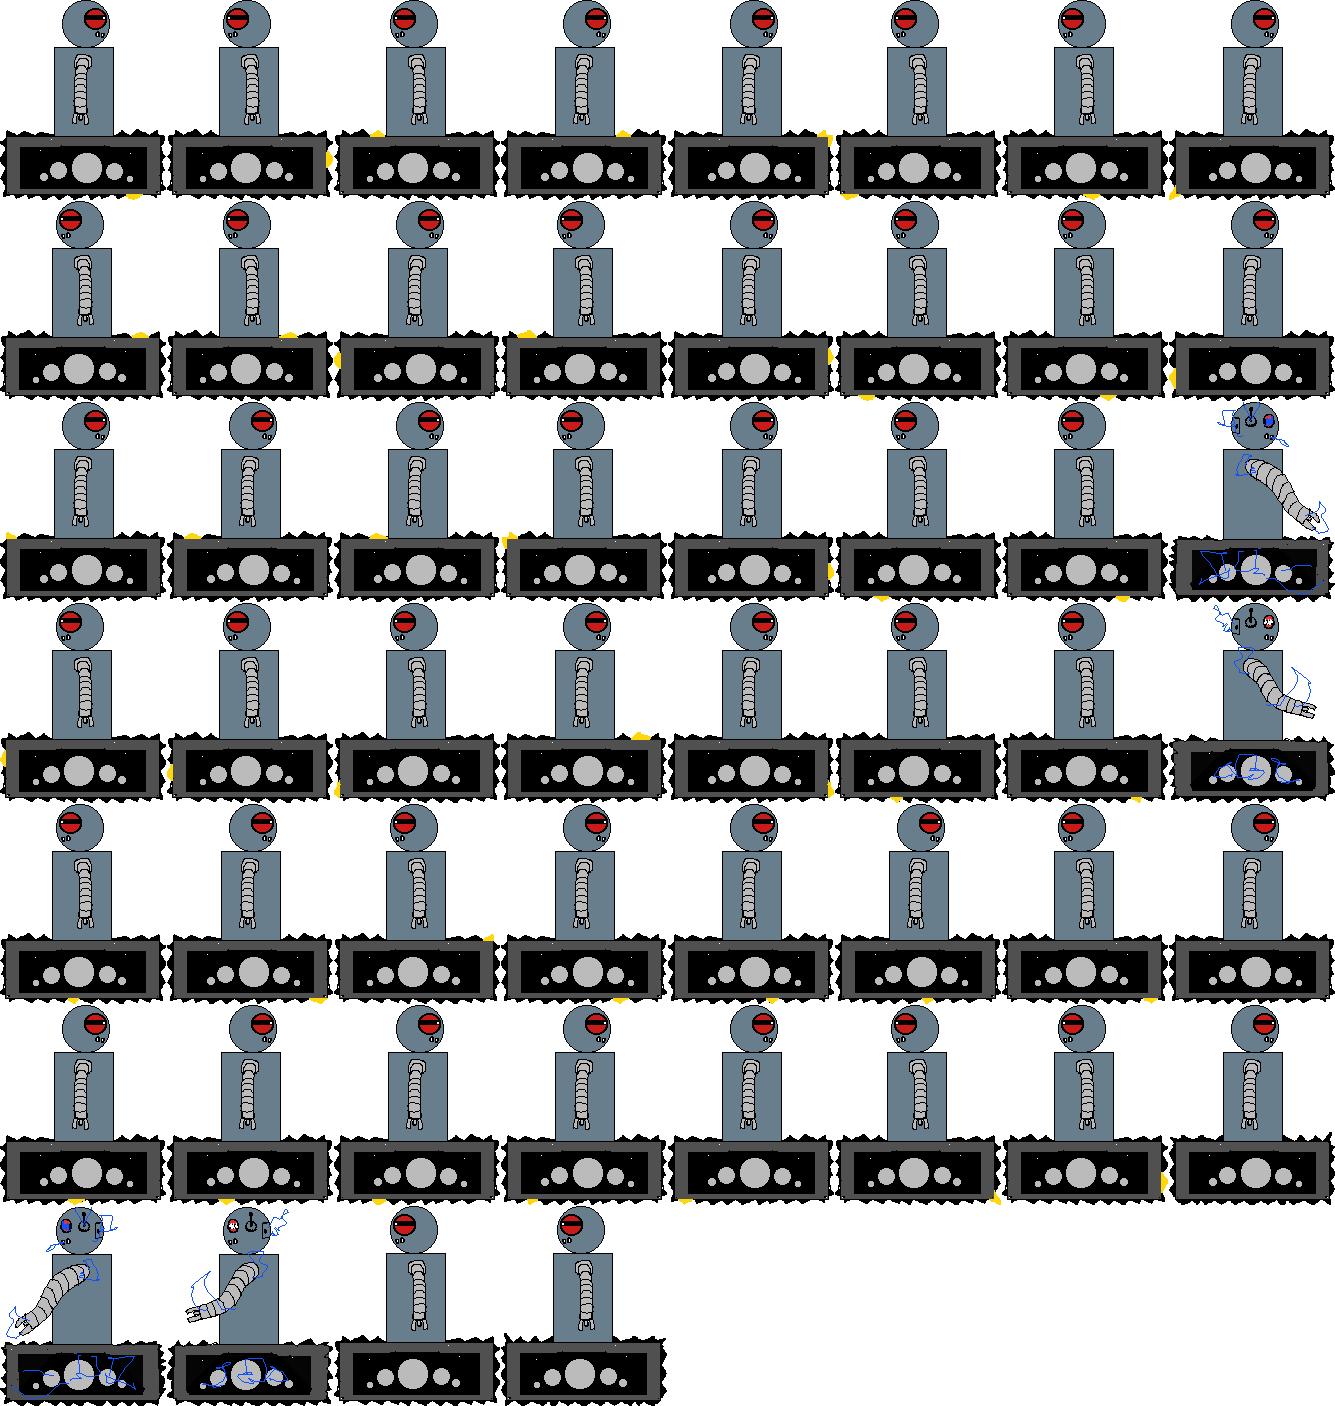
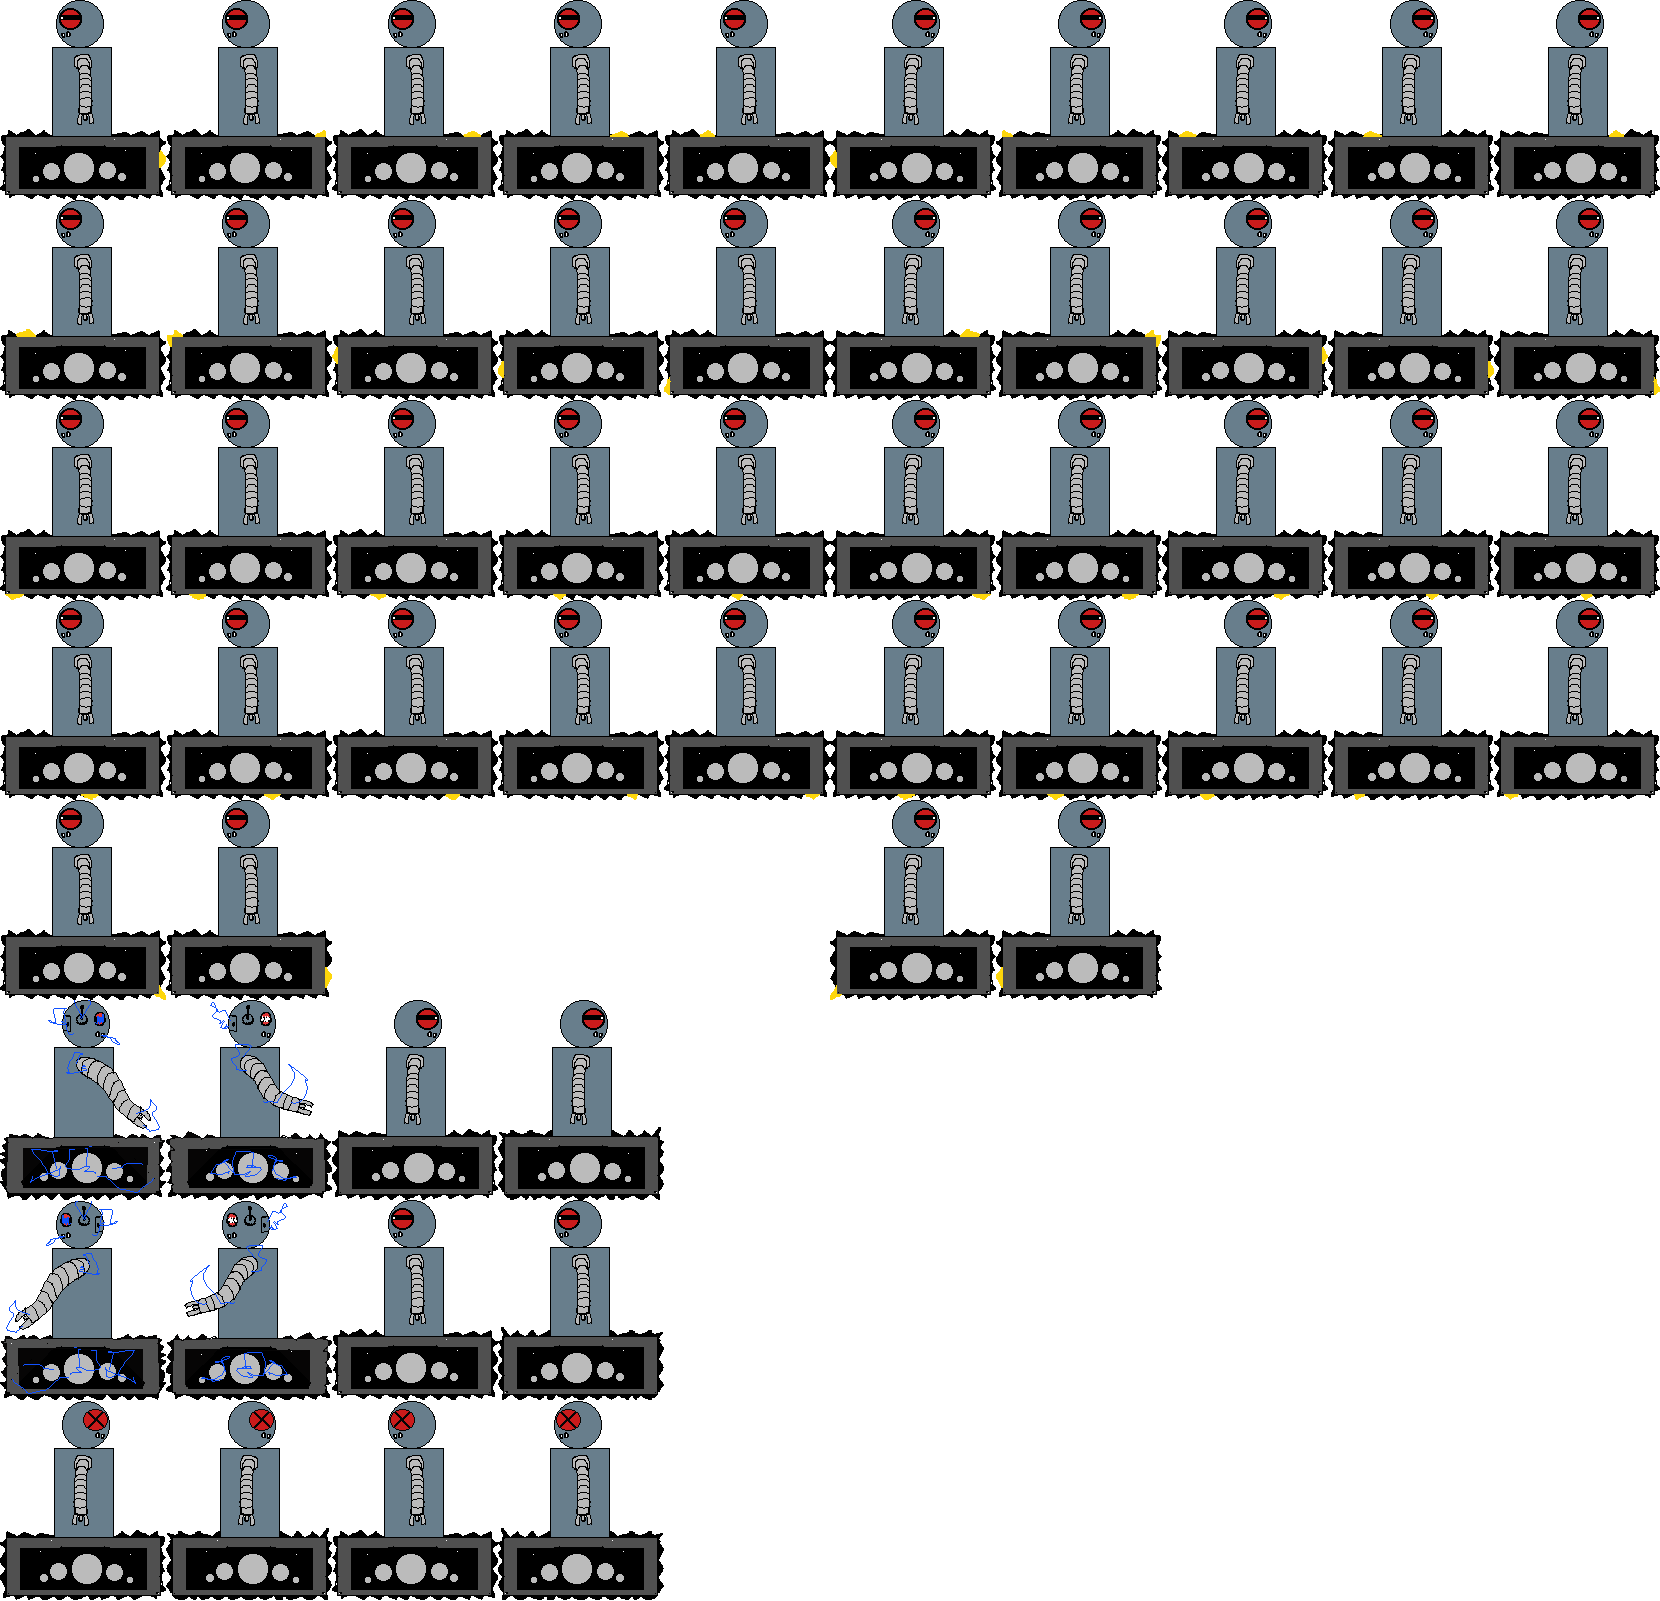
add animation for hacked

diff --git a/public/js/Level1_stage3.js b/public/js/Level1_stage3.js
@@ -41,7 +41,6 @@ BackTogether.Level1_stage3.prototype = {
         this.pausedScreen.off();
 
         this.popupScreen = new PopupScreen(game, 'Objective: \n Stage 3 ... \n When you find drone, \n run away..\n They find you and send robots to you.');
-        this.popupScreen.on();
 
 
         var collisionObjects = game.physics.p2.convertCollisionObjects(map, 'collision', true);
@@ -84,6 +83,11 @@ BackTogether.Level1_stage3.prototype = {
         keys['SPACE'].onDown.add(this.unpause, this);
         keys['ENTER'].onDown.add(this.unpause, this);
 
+
+
+        this.popupScreen.on();
+
+
     },
 
     update: function (game) {
@@ -105,17 +109,33 @@ BackTogether.Level1_stage3.prototype = {
             if (this.checkOverlap(this.player.sprite, r.sprite)) {
                 // if the player and a robot overlap, 
                 if (r.vulnerable) {
+
                     GameScreenConfig.setObjective("Press down or 'S' to H A C K!");
+
+                    if (this.player.hackingStart){
+                        console.log('yeahhhh');
+
+                        if (r.state == 'switchOffLeft'){
+                            r.state = 'hackLeft'
+                            r.sprite.animations.play('hackLeft');
+                        } else {
+ r.state = 'hackRight';    
+                            r.sprite.animations.play('hackRight');
+                           
+                        }
+                    }
+
+
                 } else {
 
                     if (this.playerAttackFromLeft(r)) {
                         r.vulnerable = true;
-                        this.popupScreen.setText("CONGRATULATIONS! \n You just defeated your first evil robot!");
+                        this.popupScreen.setText("Good job!\n Let's Hack this broken robot! \n Press down cursor or\n press 'S' next to robot!");
                         this.popupScreen.on();
                     }
                     else if (this.playerAttackFromRight(r)) {
                         r.vulnerable = true;
-                        this.popupScreen.setText("CONGRATULATIONS! \n You just defeated your first evil robot!");
+                        this.popupScreen.setText("Good job!\n Let's Hack this broken robot! \n Press down cursor or\n press 'S' next to robot!");
                         this.popupScreen.on();
                     }
 

diff --git a/public/js/Robot.js b/public/js/Robot.js
@@ -11,6 +11,8 @@ var Robot = function (game, x, y) {
     this.sprite.animations.add('rightIdle', Phaser.Animation.generateFrameNames('ir', 1, 22), 10, true);
     this.sprite.animations.add('left', Phaser.Animation.generateFrameNames('l', 1, 2), 10, true);
     this.sprite.animations.add('right', Phaser.Animation.generateFrameNames('r', 1, 2), 10, true);
+    this.sprite.animations.add('switchOffLeft', Phaser.Animation.generateFrameNames('ddl', 1, 2), 10, true);
+    this.sprite.animations.add('switchOffRight', Phaser.Animation.generateFrameNames('ddr', 1, 2), 10, true);
     this.sprite.animations.add('hackLeft', Phaser.Animation.generateFrameNames('dl', 1, 2), 10, true);
     this.sprite.animations.add('hackRight', Phaser.Animation.generateFrameNames('dr', 1, 2), 10, true);
 
@@ -96,13 +98,17 @@ var Robot = function (game, x, y) {
 
         }
         else {
-            // if the robot is attacked, and it is already dead,
-            if (this.state == 'left' || this.stage == 'leftIdle'){
+
+            if (this.state == 'hackLeft'){
                 this.sprite.animations.play('hackLeft');
+            }else if (this.state == 'hackRight'){
+                this.sprite.animations.play('hackRight');
+            }else if (this.state == 'left' || this.stage == 'leftIdle'){
+                this.sprite.animations.play('switchOffLeft');
             }
                        // if the robot is attacked, and it is already dead,
             else{
-                this.sprite.animations.play('hackRight');
+                this.sprite.animations.play('switchOffRight');
             }
         }
     }

diff --git a/public/js/PopupScreen.js b/public/js/PopupScreen.js
@@ -16,7 +16,7 @@ var PopupScreen = function (game, message) {
     this.txt = game.add.text(game.camera.view.centerX, game.camera.view.centerY - this.sprite.height / 3, message, { font: '32px Aclonica', fill: '#FFF' });
     this.txt.anchor.setTo(0.5, 0);
 
-    this.off = function(){
+    this.off = function () {
 
         this.popupBool = false;
 
@@ -28,7 +28,7 @@ var PopupScreen = function (game, message) {
         game.paused = false;
     }
 
-    this.okBtn = game.add.button(game.camera.view.centerX, game.camera.view.centerY + this.sprite.height / 3, 'okBtn', this.off , this, 2, 1, 0);
+    this.okBtn = game.add.button(game.camera.view.centerX, game.camera.view.centerY + this.sprite.height / 3, 'okBtn', this.off, this, 2, 1, 0);
     this.okBtn.anchor.setTo(0.5, 0.5);
     this.okBtn.scale.setTo(4, 4);
 
@@ -52,11 +52,16 @@ var PopupScreen = function (game, message) {
         this.txt.reset(game.camera.view.centerX, game.camera.view.centerY - this.sprite.height / 3);
         game.paused = true;
         this.popupBool = true;
+
+        game.world.bringToTop(this.sprite);
+        game.world.bringToTop(this.txt);
+        game.world.bringToTop(this.okBtn);
+        game.world.bringToTop(this.okIcon);
     }
 
 
 
-    this.setText = function(m){
+    this.setText = function (m) {
         this.txt.setText(m);
     }
 }

diff --git a/public/js/Hand.js b/public/js/Hand.js
@@ -38,6 +38,8 @@ var Hand = function (game, map) {
     this.damaged = false;
     this.damagedTime = 0;
 
+    this.hackingStart = false;
+
     // player.items = ['invisible', 'stink', 'invisible'];
     this.items = { 'invisible': 2, 'stink': 1 };
     this.itemBtns = [];
@@ -51,6 +53,7 @@ var Hand = function (game, map) {
 
         //  Reset the players velocity (movement)
         this.sprite.body.velocity.x = 0;
+        this.hackingStart = false;
 
         if (timeNow < this.damagedTime) {
             // if player gets damaged.
@@ -126,6 +129,10 @@ var Hand = function (game, map) {
                     GameScreenConfig.setObjective('↑ is for back flip. You use it when you are upside-down!')
                 }
             }
+            else if (keys['DOWN'].isDown || keys['S'].isDown){
+                this.hackingStart = true;
+            }
+
             else {
 
                 if (this.damaged) {
